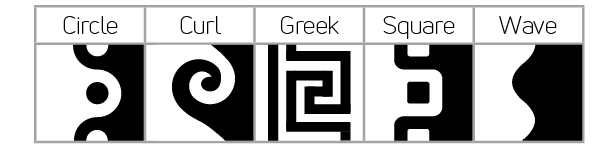
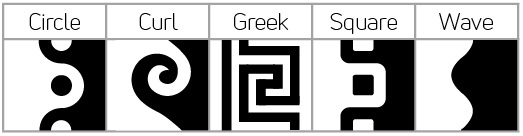
sem

diff --git a/collage_html/index.html b/collage_html/index.html
@@ -17,7 +17,7 @@
 				<li>No mask or selection needed, open the image, choose the action and play</li>
 				<li>Non-destructive, keeps the original image untouched</li>
 				<li>5 different seam patterns<br/>
-                <img src="https://raw.githubusercontent.com/akidaniel/almacen/gh-pages/collage_html/images/TILES3.jpg" alt="Tiles"><br /></li>
+                <img src="https://raw.githubusercontent.com/akidaniel/almacen/gh-pages/collage_html/images/seam.png" alt="Seam pattern"><br /></li>
 				<li>From 5 to 10 images</li>
 				<li>x 2 different sizes:<ul><li>Small: pattern width = 100px</li><li>Large: pattern width = 200px</li></ul></li>
 				<li>= 50 total actions</li>
@@ -31,14 +31,14 @@
         
 <table width="100%">
 <tr>       
-<td >
-<p style="color:#bababa;"><br>
+<td style="color:#bababa; width:300px">
+
 Make a new file with the final document size. Any height is posible.
 Go to the menu View > Rulers and from the left ruler drag a vertical guide until the document center
 Distribute the images that will make up the collage in the upper layers by copy-pasting from other open documents or placing them from the menu File > Place Embedded.
 Move the layer content until the main object is horizontally centered in the file
-</p></td>
-<td ><img src="https://raw.githubusercontent.com/akidaniel/almacen/gh-pages/collage_html/images/layer_000.png" alt="layer_00" width="300"></td>
+</td>
+<td ><img src="https://raw.githubusercontent.com/akidaniel/almacen/gh-pages/collage_html/images/layer_000.png" alt="layer_00" width="300px"></td>
 </tr>
 
 
